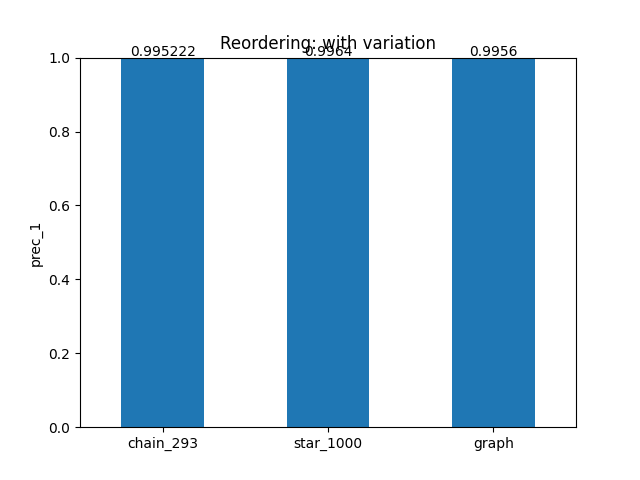
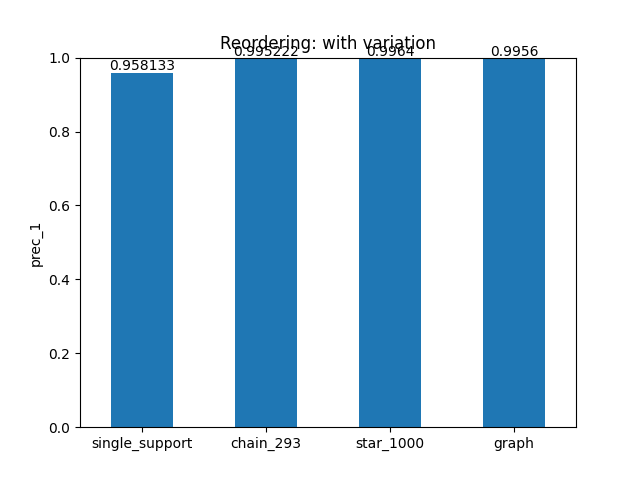
ADDED visualization for single support

diff --git a/visualization.py b/visualization.py
@@ -446,7 +446,7 @@ class Vis():
         
         return turn_idx
     
-    def perform_ttest(self, comparison = "single", setup = ""):
+    def perform_ttest(self, comparison = "single", exp_name = ""):
         first_accs = [list(eval_data['accuracy']) for setup, eval_data in self.eval_data_hf.items() if comparison in setup][0]
 
         stats_dict = defaultdict(list)
@@ -471,8 +471,8 @@ class Vis():
         stats_df = pd.DataFrame(stats_dict)
 
         outfile = f"{self.vispath}/significance_{comparison}"
-        if setup != "":
-            outfile += f"_{setup}"
+        if exp_name != "":
+            outfile += f"_{exp_name}"
 
         if self.last:
             outfile += f"_last"
@@ -517,7 +517,7 @@ if __name__ == "__main__":
 
     # no var: full-reasons
     exp_files_full_reasons_no_var = {
-        "single_full": "outputs/single/Qwen3-32B/dev/outputs_149",
+        "single_full": "outputs/single/Qwen3-32B/dev/outputs_152",
         "chain": "outputs/multi/Qwen3-32B/dev/outputs_188",
         "graph": "outputs/multi/Qwen3-32B/dev/outputs_190",
         "star": "outputs/multi/Qwen3-32B/dev/outputs_189"
@@ -538,9 +538,17 @@ if __name__ == "__main__":
 
     #outputs/multi/Qwen3-32B/dev/ckps/outputs_203_204_205_206_0
     exp_files_full_support_var = {
+        "single_support": "outputs/single/Qwen3-32B/dev/outputs_214",
         "chain_293": "outputs/multi/Qwen3-32B/dev/ckps/outputs_201_0",
         "star_1000": "outputs/multi/Qwen3-32B/dev/ckps/outputs_203_204_205_206_0",
         "graph": "outputs/multi/Qwen3-32B/dev/outputs_207_208_209"
+    }
+
+    # single: var - full - anything
+    exp_files_single_var = {
+        "hypo_single": "outputs/single/Qwen3-32B/dev/outputs_147",
+        "full_single": "outputs/single/Qwen3-32B/dev/outputs_149",
+        "support_single": "outputs/single/Qwen3-32B/dev/outputs_214",
     }
 
     # chain: var - full - anything
@@ -570,14 +578,14 @@ if __name__ == "__main__":
         print("last: ", last)
         args = {
             "variation": True,
-            "conv_format": "support",
+            "conv_format": "",
             "last": last,
-            "comparison": "chain"
+            "comparison": "hypo"
         }
 
-        vis = Vis(exp_files_full_support_var, variation = args["variation"], conv_format = args["conv_format"], last = args["last"])
+        vis = Vis(exp_files_single_var, variation = args["variation"], conv_format = args["conv_format"], last = args["last"])
         #vis.plot_performance()
-        vis.perform_ttest(comparison = args["comparison"], setup = "chain")
+        vis.perform_ttest(comparison = args["comparison"], exp_name = "single")
 
     # vis.plot_sankey_full_plotly("chain", sent_color = False)
     #vis.plot_sankey_full_plotly("graph_250", sent_color = False)
